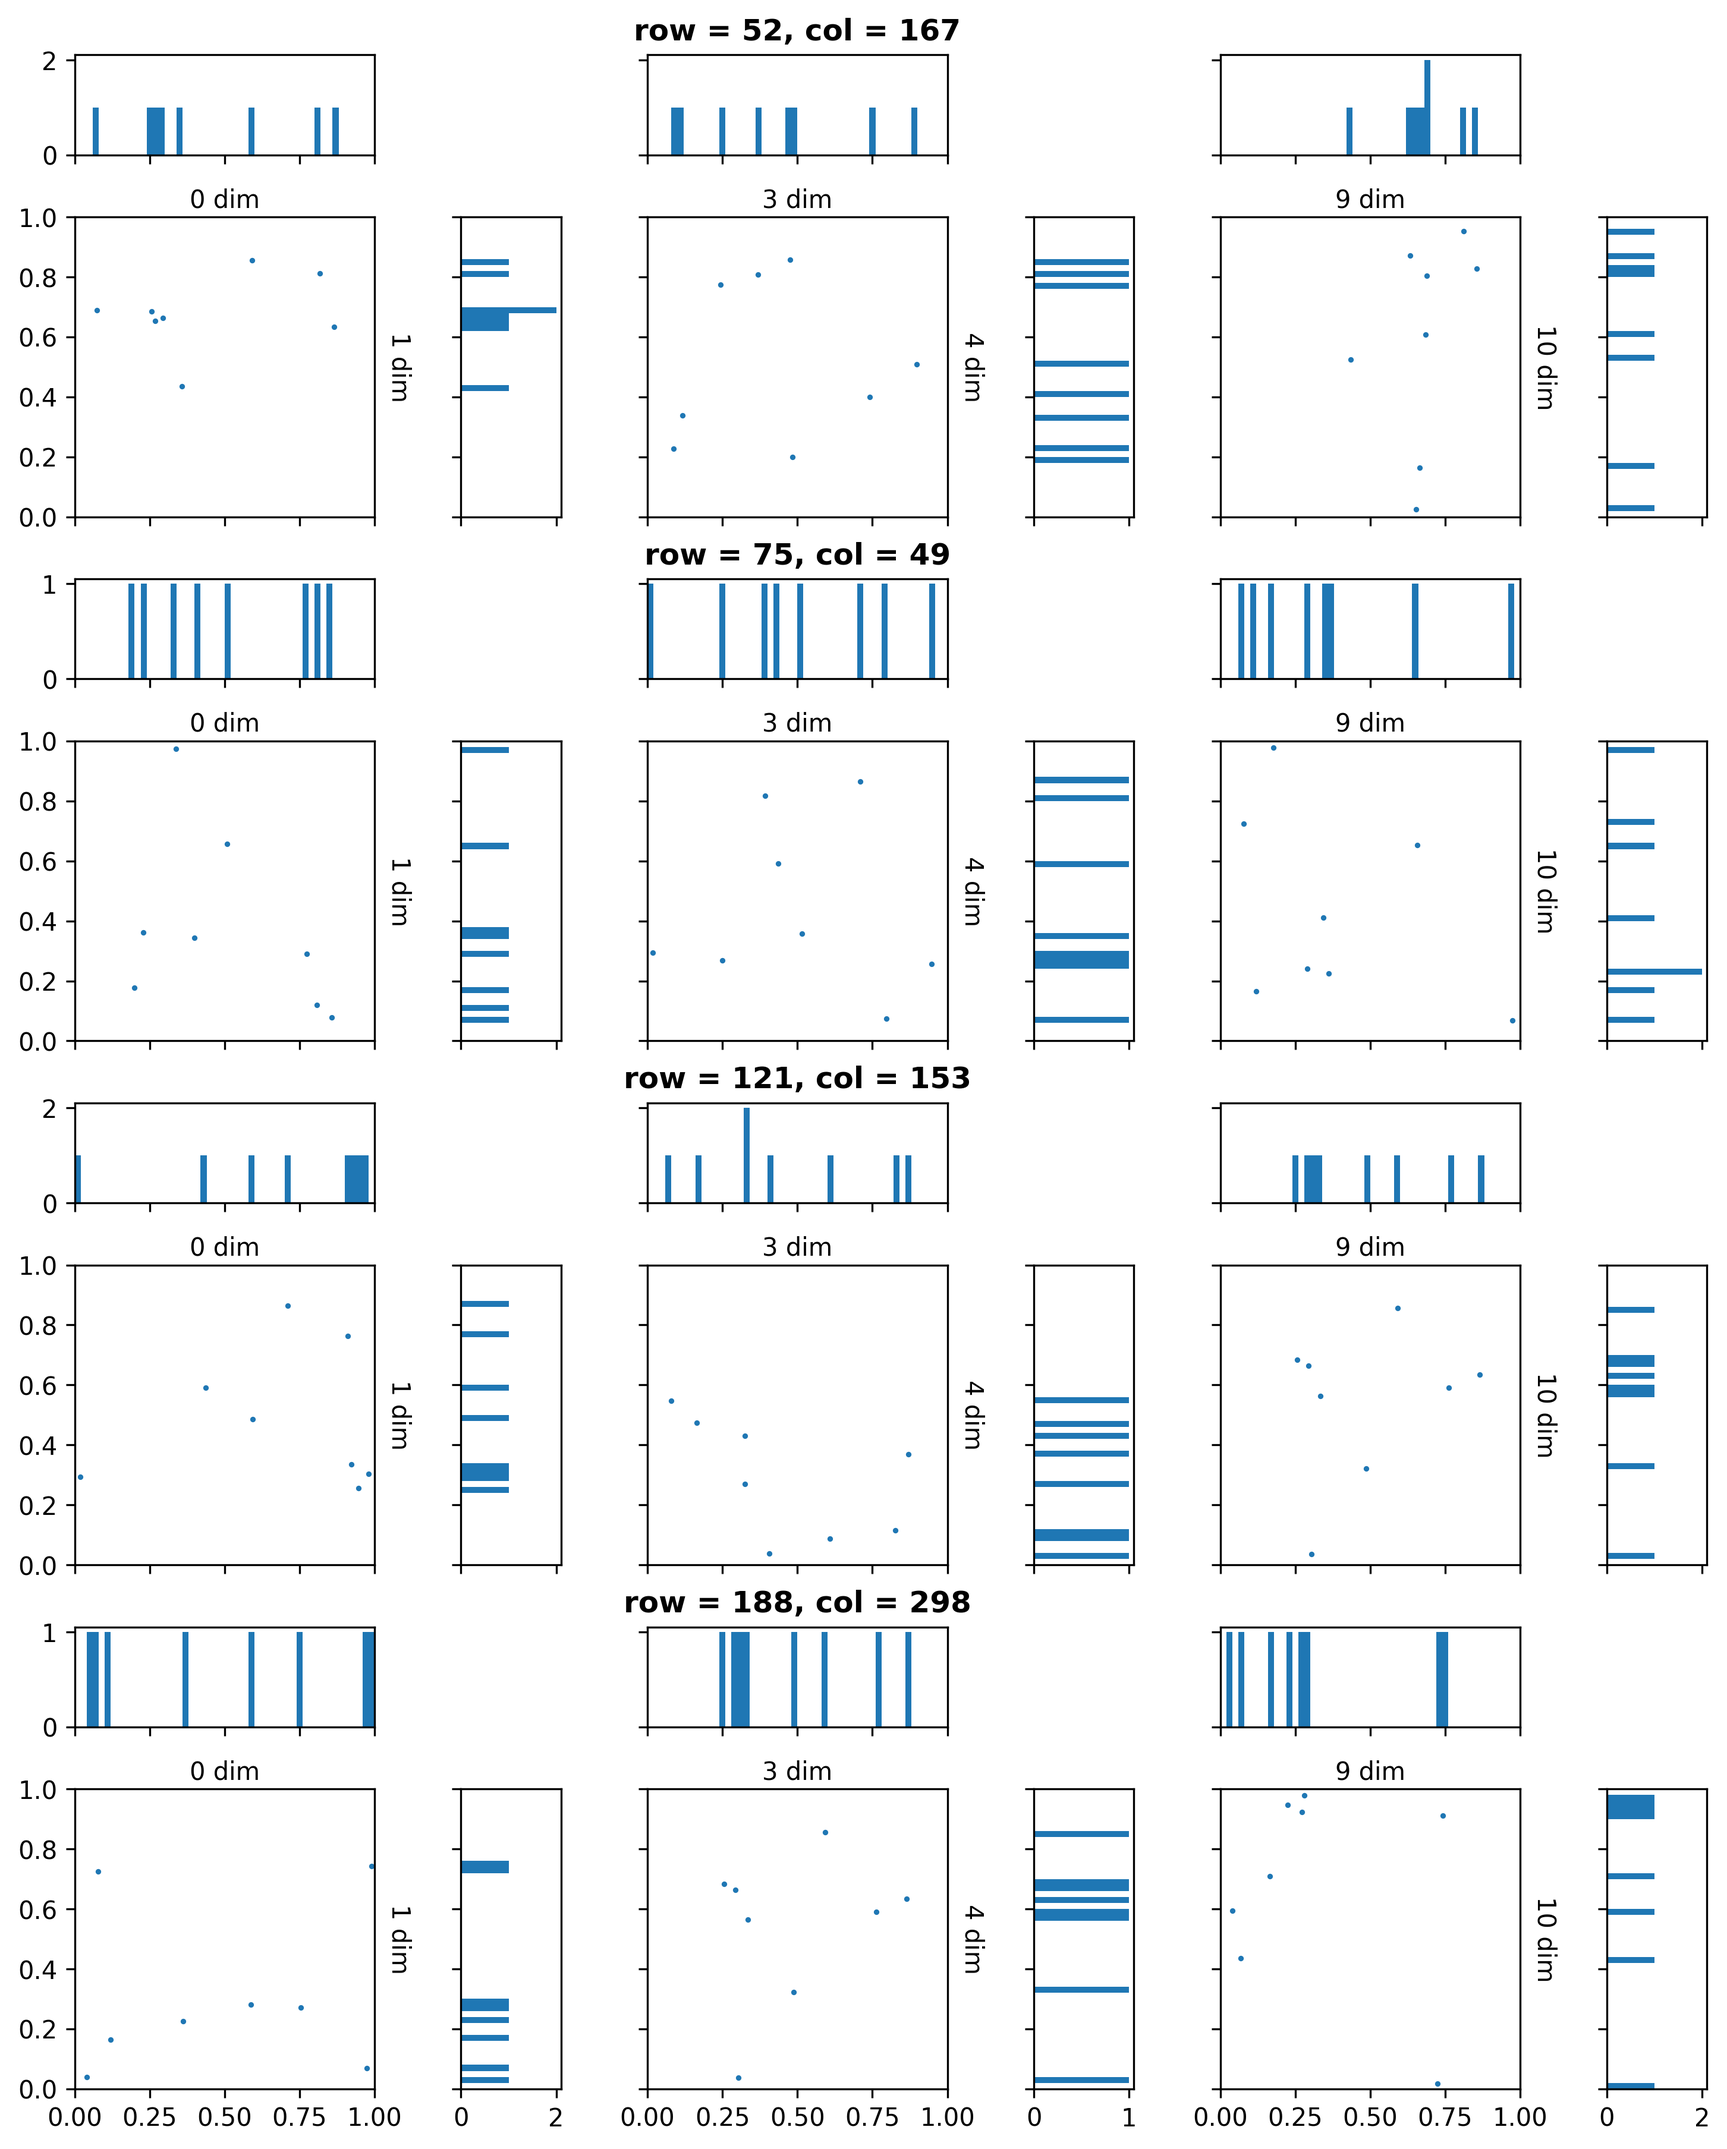
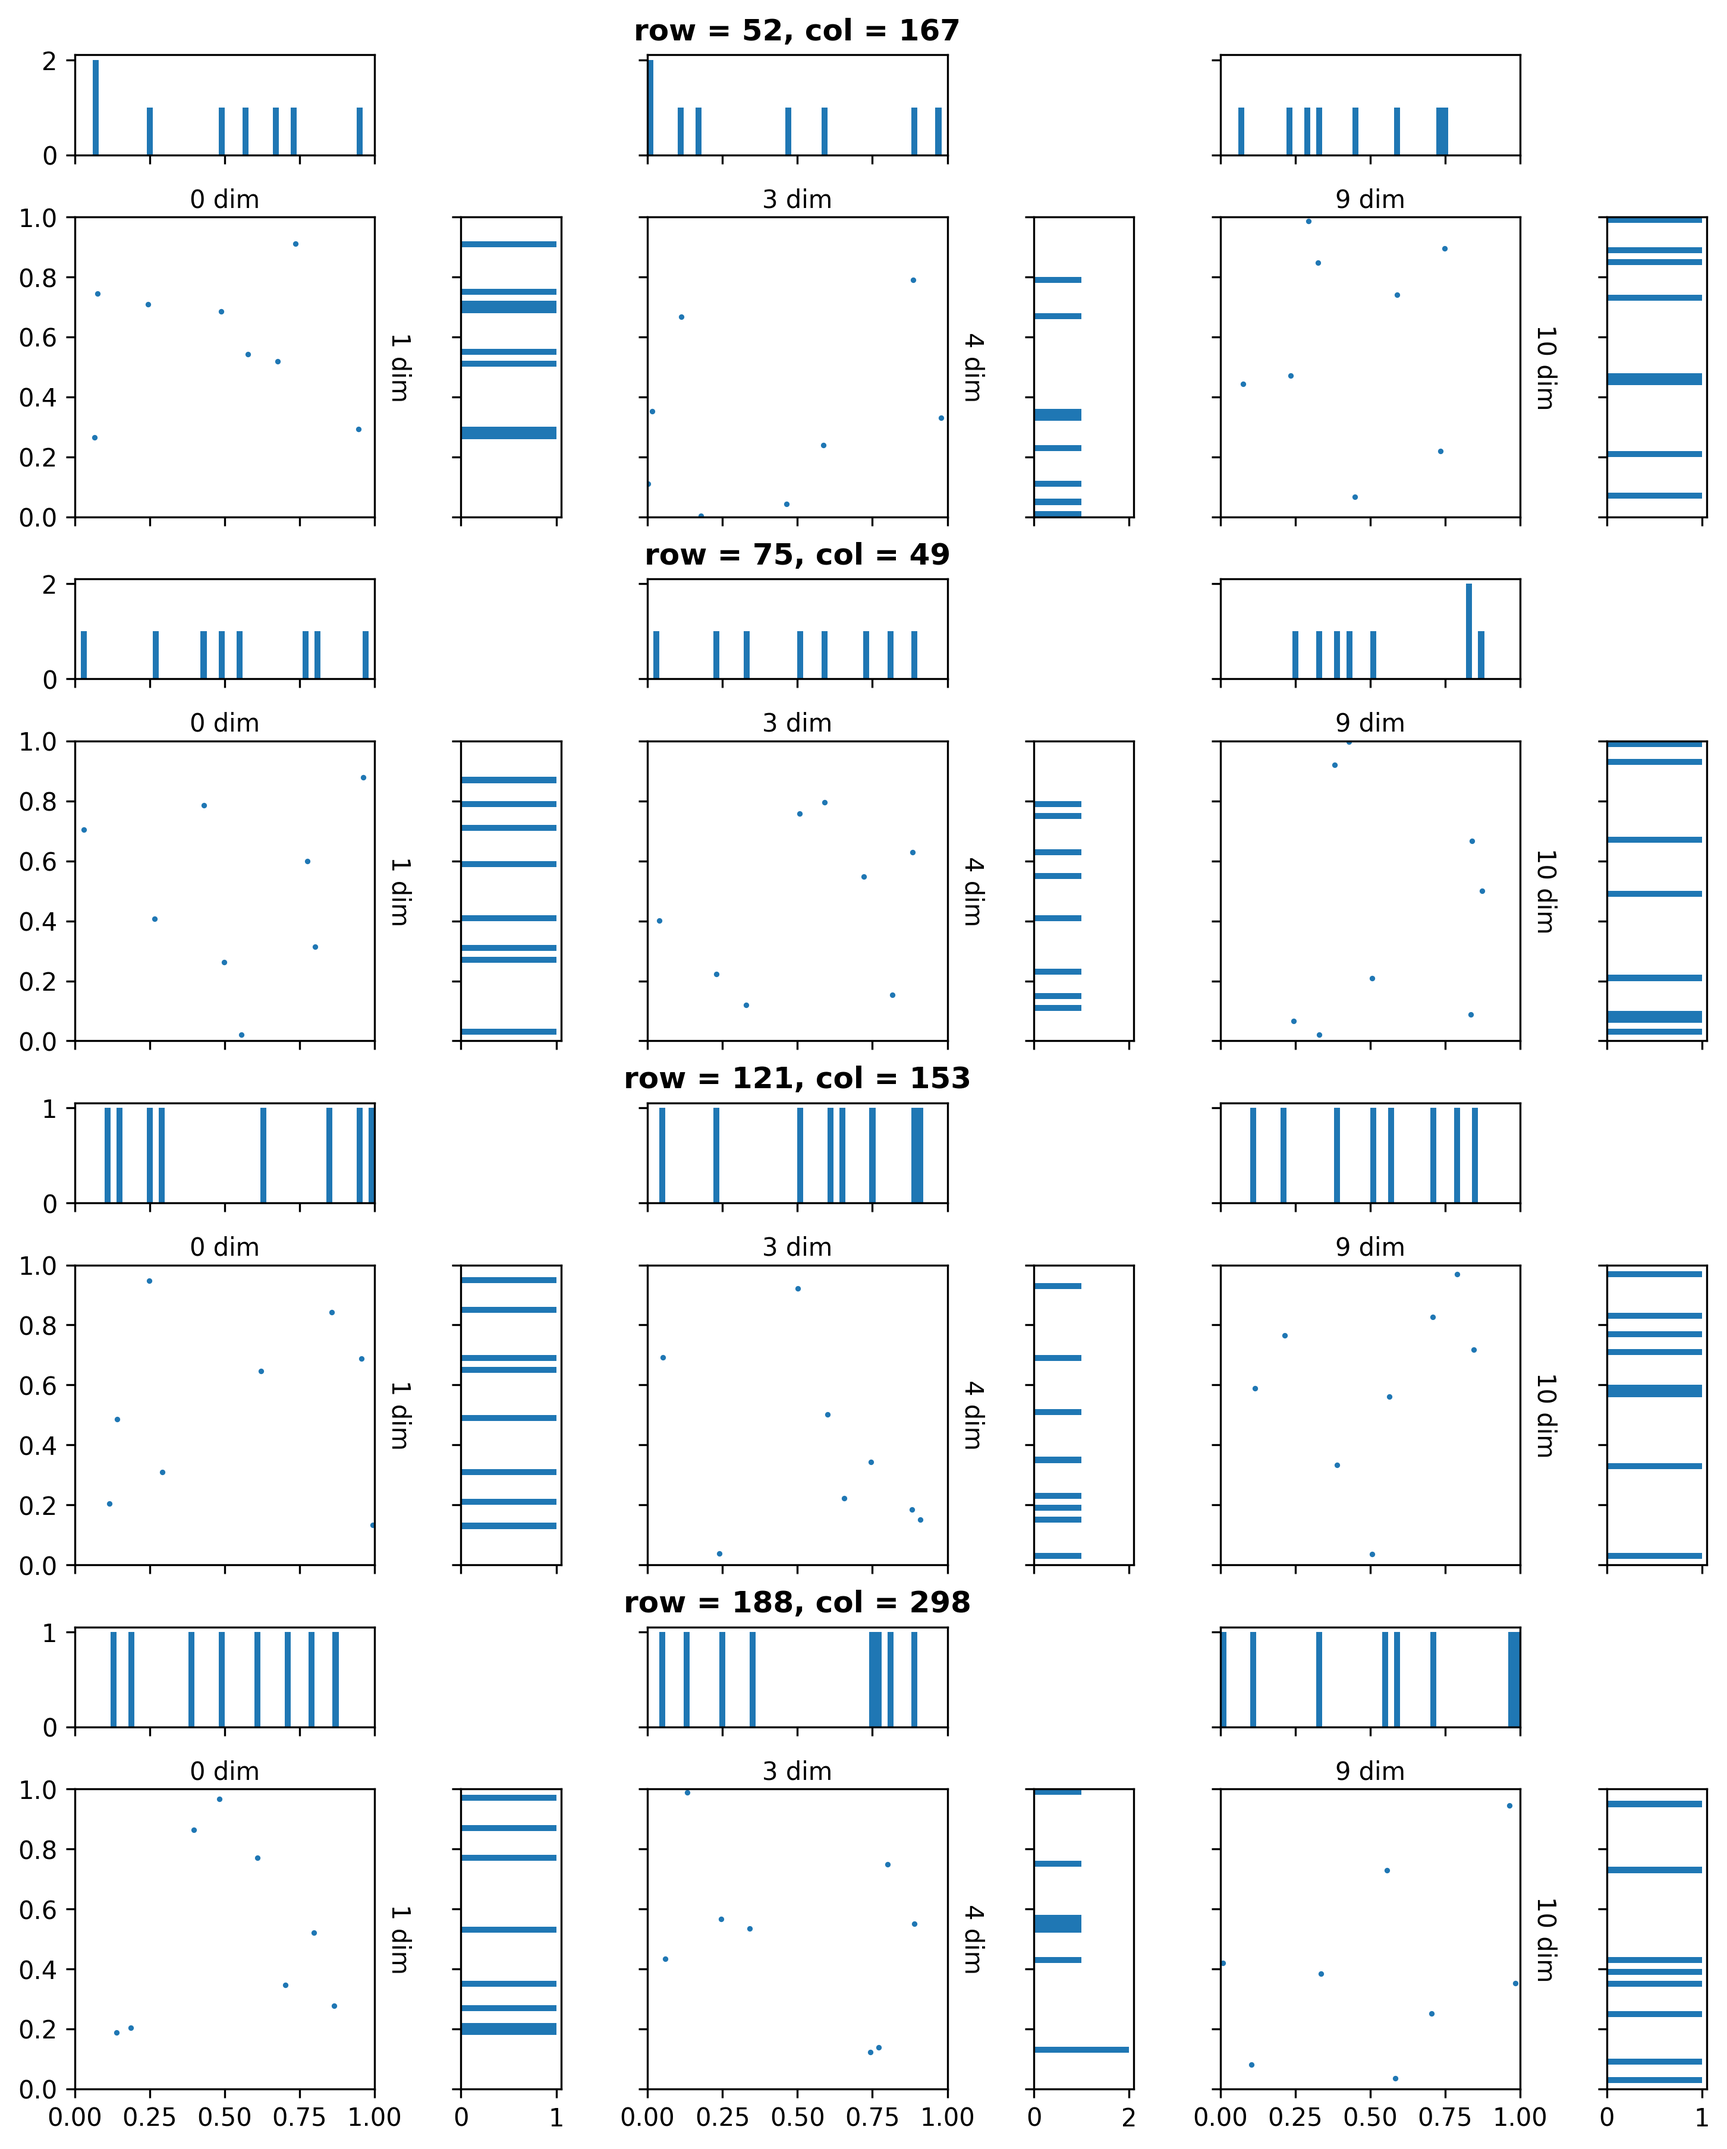
Add implementation of BlueNoise random function

diff --git a/MakeScatterForPixel/main.py b/MakeScatterForPixel/main.py
@@ -45,9 +45,9 @@ def ReadInformationForPixel(cur_index: int) -> None:
 # name = "HaltonRandomDigit"
 # name = "HaltonOwen"
 name = "BlueNoise"
-# MAX_SAMPLE = 8
+MAX_SAMPLE = 8
 # MAX_SAMPLE = 16
-MAX_SAMPLE = 256
+# MAX_SAMPLE = 256
 build_dimensions = [[0, 1], [3, 4], [9, 10]]
 
 config_str = "Results/" + name + "_" + str(MAX_SAMPLE)
